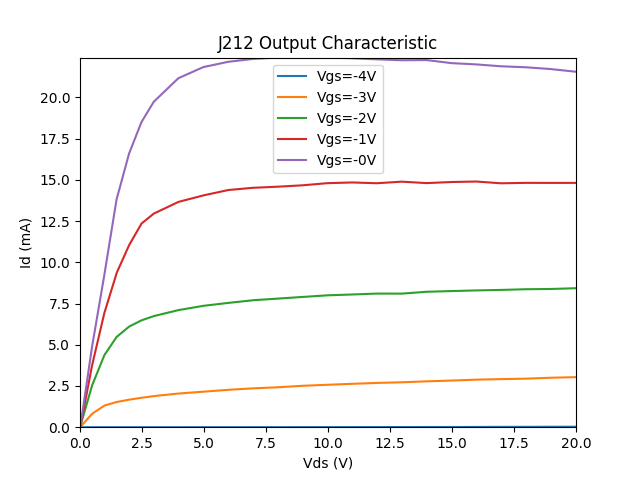
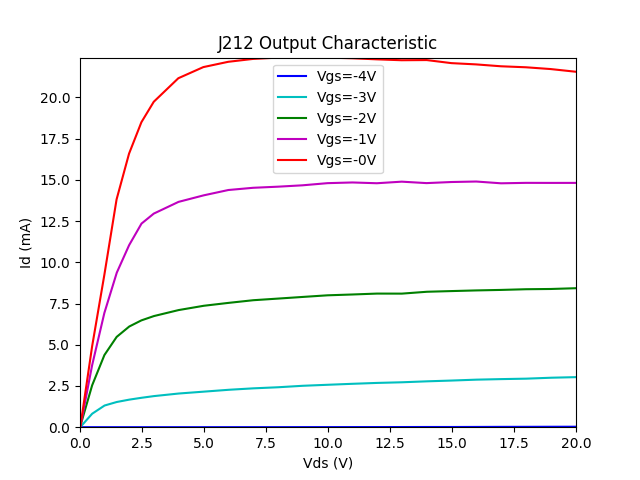
color fix

diff --git a/curvetracer/__main__.py b/curvetracer/__main__.py
@@ -144,14 +144,17 @@ def command_plot_oc(f, output_file):
     xmax = 0
     ymin = 0
     ymax = 0
-    for vgs in sorted(dataset.keys()):
+    colors = [
+        'b', 'c', 'g', 'm', 'r', 'y'
+    ]
+    for i, vgs in enumerate(sorted(dataset.keys())):
         X = dataset[vgs][0]
         Y = dataset[vgs][1]
         xmin = min(xmin, min(X))
         xmax = max(xmax, max(X))
         ymin = min(ymin, min(Y))
         ymax = max(ymax, max(Y))
-        ax.plot(X, Y, label='Vgs=%gV' % vgs)
+        ax.plot(X, Y, label='Vgs=%gV' % vgs, color=colors[i % len(colors)])
 
     ax.set_xlabel('Vds (V)')
     ax.set_xlim(xmin, xmax)
@@ -205,8 +208,8 @@ def command_plot_tc(f, output_file, with_temp):
         ymin = min(ymin, min(Y))
         ymax = max(ymax, max(Y))
         if with_temp:
-            ax.plot(X, T, color=colors[i], linestyle='dotted')
-        ax2.plot(X, Y, label='Vds=%gV' % vds, color=colors[i])
+            ax.plot(X, T, color=colors[i % len(colors)], linestyle='dotted')
+        ax2.plot(X, Y, label='Vds=%gV' % vds, color=colors[i % len(colors)])
 
     ax2.set_ylabel('Id (mA)')
     ax2.set_ylim(ymin, ymax)
